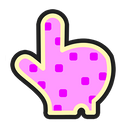
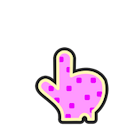
update cursor.png, index.html, script.js and style.css

diff --git a/script.js b/script.js
@@ -1,7 +1,7 @@
 const cursor = document.getElementById('cursor');
 let mouseX = 0, mouseY = 0;
 let posX = 0, posY = 0;
-const speed = 0.2;
+const speed = 0.25;
 
 document.addEventListener('mousemove', e => {
   mouseX = e.clientX;

diff --git a/index.html b/index.html
@@ -11,4 +11,5 @@
     <h1>frzcls://index.html</h1>
     <p>Welcome to the frzcls://index.html page!</p>
     <img src="cursor.png" id="cursor">
+    <button>uHhhh idk</button>
 </body>

diff --git a/style.css b/style.css
@@ -10,6 +10,9 @@
 html, body {
     margin: 0;
     padding: 0;
-    cursor: none;
     height: 100%;
+}
+
+* {
+    cursor: none;
 }
